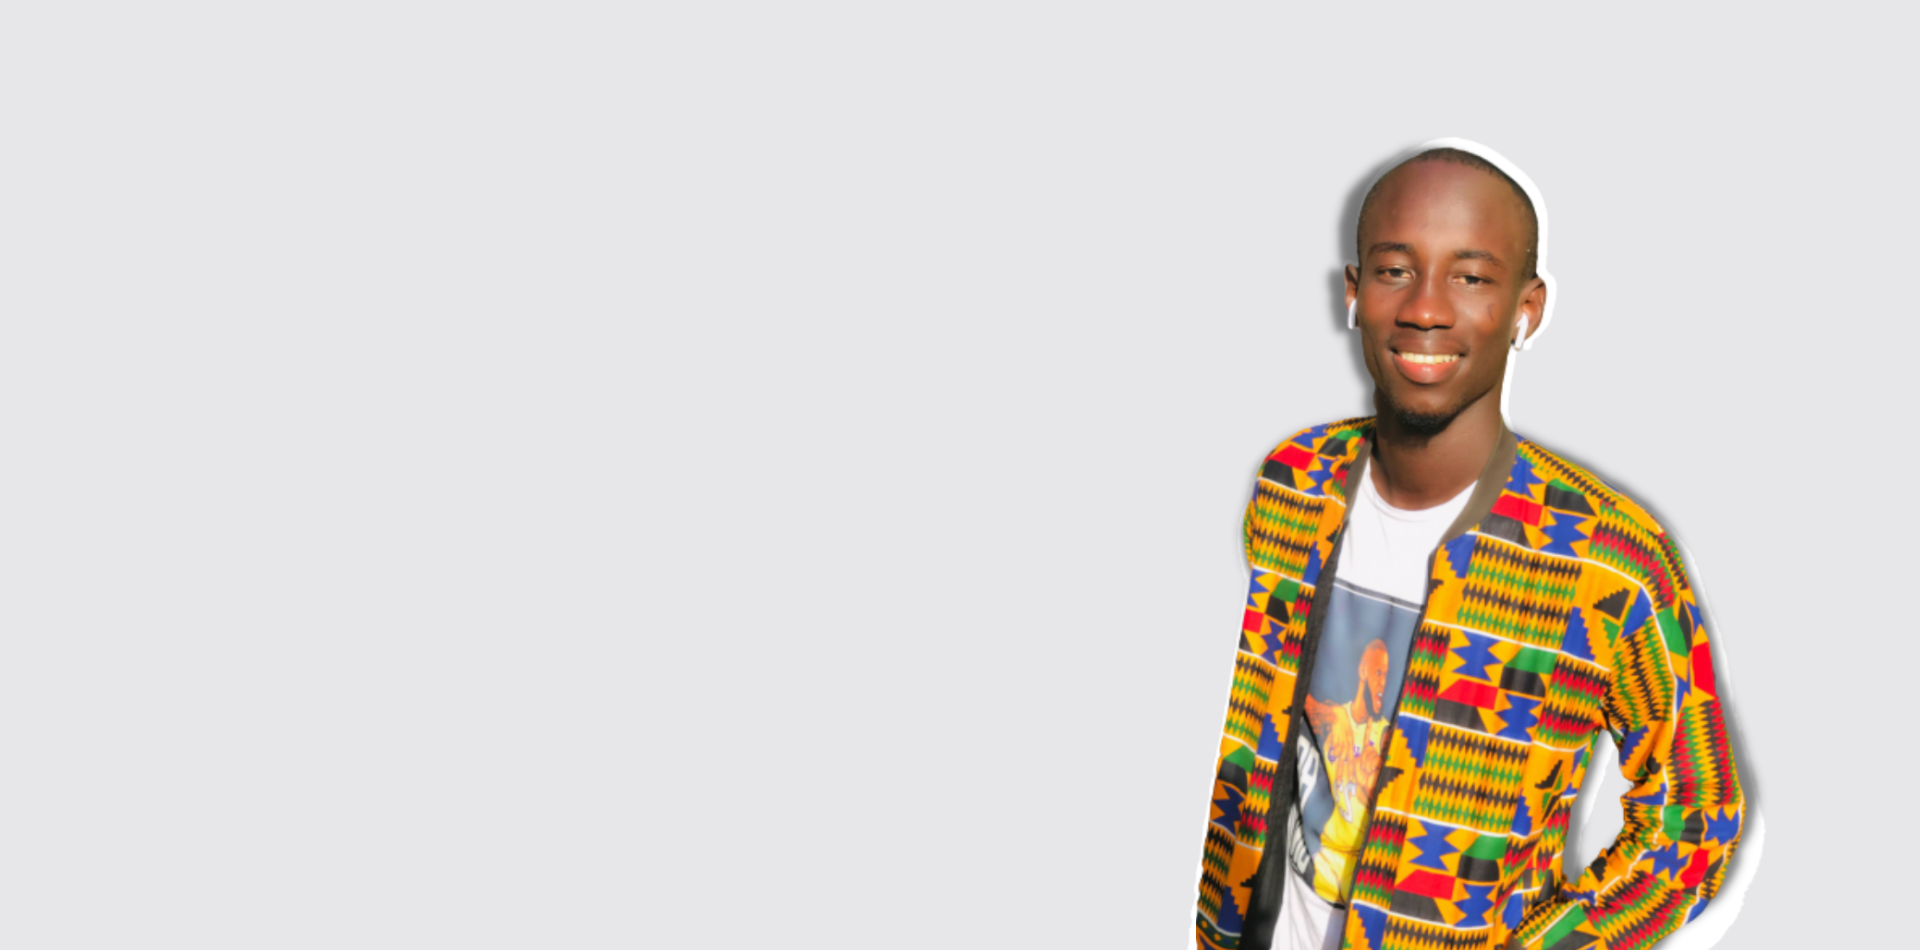
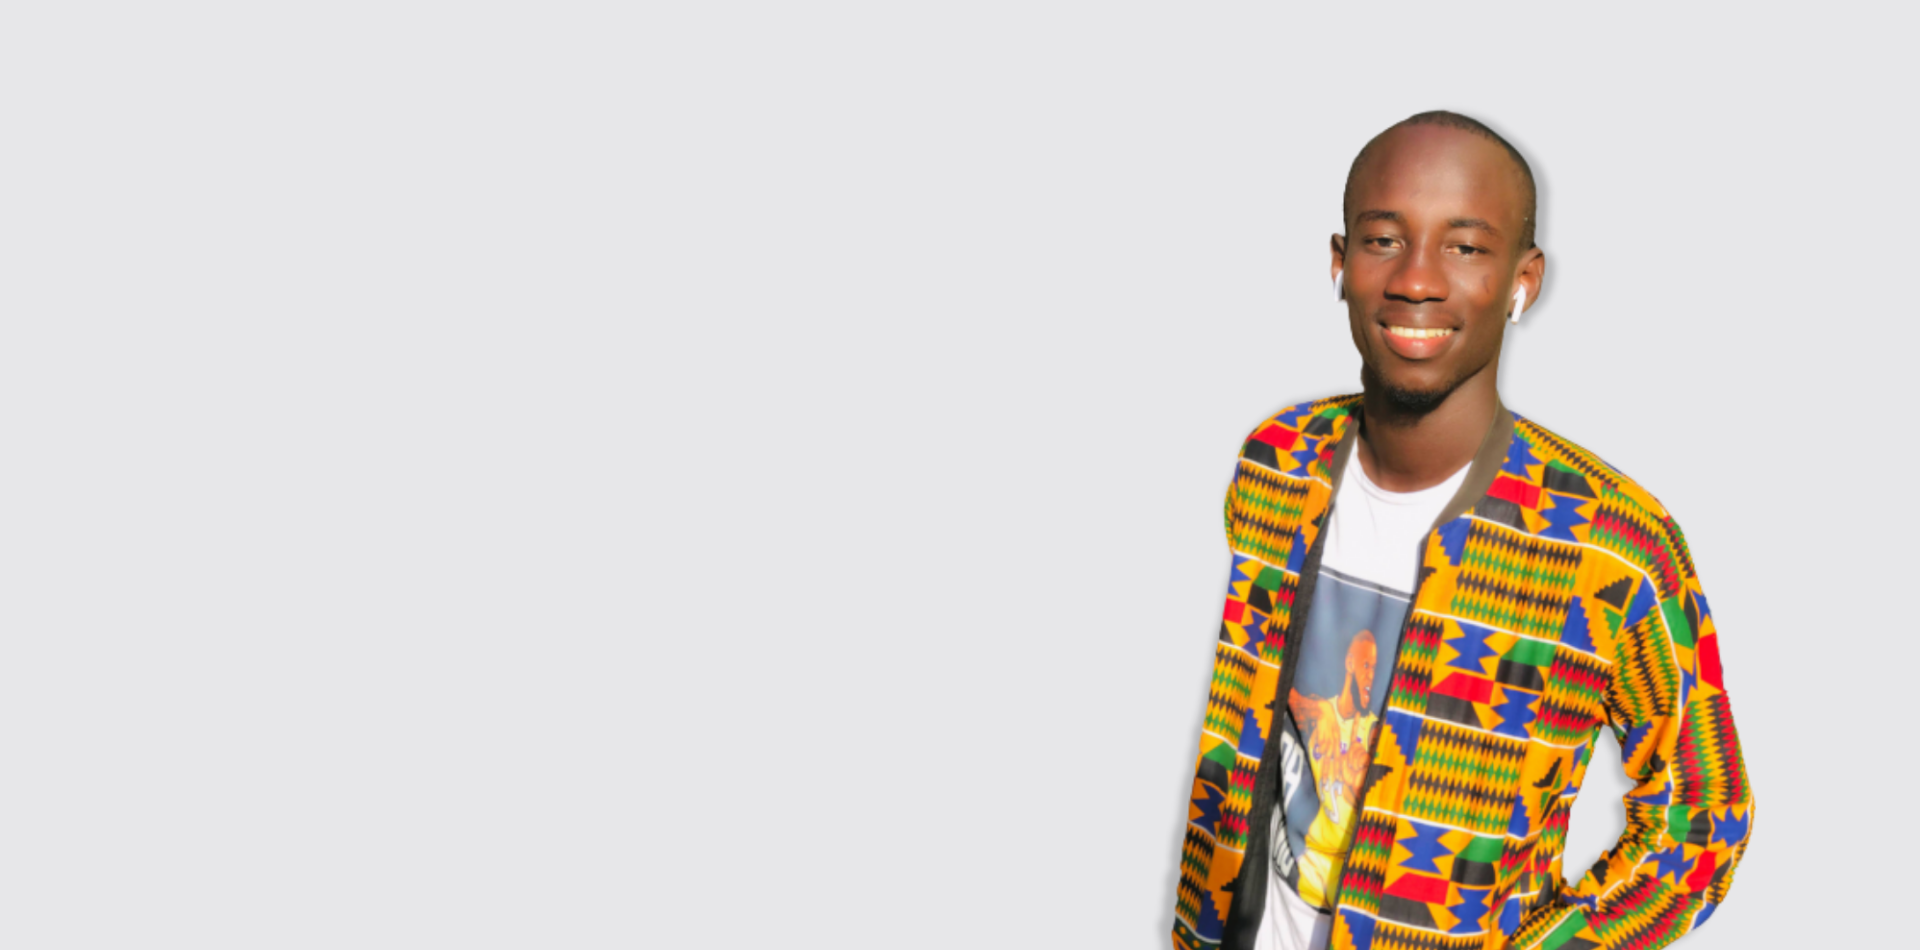
modification

Changed region(s): [[0.5938, 0.1221, 0.9375, 1.0]]

diff --git a/index.html b/index.html
@@ -9,16 +9,19 @@
     </head>
     <body>
         <div class="navbar">
-            <nav>
-                <ul>
-                    <li><a href="#">Home</a></li>
-                    <li><a href="#">About</a></li>
-                    <li><a href="#">Service</a></li>
-                    <li><a href="#">Portfolio</a></li>
-                    <li><a href="#">Blog</a></li>
-                    <li><a href="#">Contact</a></li>
-                </ul> 
-            </nav>
+            <div class="max-width">
+                <div class="logo"><a href="#">Portofo<span>lio.</span></a></div>
+                <nav>
+                    <ul class="menu">
+                        <li><a href="#">Home</a></li>
+                        <li><a href="#">About</a></li>
+                        <li><a href="#">Service</a></li>
+                        <li><a href="#">Portfolio</a></li>
+                        <li><a href="#">Blog</a></li>
+                        <li><a href="#">Contact</a></li>
+                    </ul> 
+                </nav>
+            </div>
         </div>
         <div class="content">
             <span class="title">Web Developper <br>Biologist</span>

diff --git a/style.css b/style.css
@@ -12,14 +12,14 @@ a{
 .navbar{
     width: 100%;
     height: 100vh;
-    background: url(./image/Sans\ titre.png);
+    background: url(image/gg.png);
     background-size: cover;
 }
 nav{
     display: flex;
     align-items: center;
     justify-content: space-between;
-    padding: 30px 100px;
+    padding: 30px 75px;
 }
 nav ul li{
     list-style: none;
@@ -30,6 +30,8 @@ nav ul li a{
     color: #1d1d24;
     position: relative;
     padding: 5px 0;
+    font-weight: 500;
+    font-size: 20px;
 }
 nav ul li a:hover{
     color: #4351A3;
@@ -46,6 +48,19 @@ nav ul li a:after{
 }
 nav ul li a:hover:after{
     width: 100%;
+}
+.navbar .logo a{
+    color: black;
+    font-size: 35px;
+    font-weight: 600;
+}
+.logo a span{
+    color: #4351A3;
+}
+.max-width{
+    display: flex;
+    align-items: center;
+    margin-left: 20px;
 }
 .btn{
     color: #fff;
@@ -164,3 +179,8 @@ footer {
       text-align: center;
       color: rgb(20, 20, 20);
   }
+ /* design respnsive*/
+ @media only screen and (max-width: 600px){
+
+    
+ }
